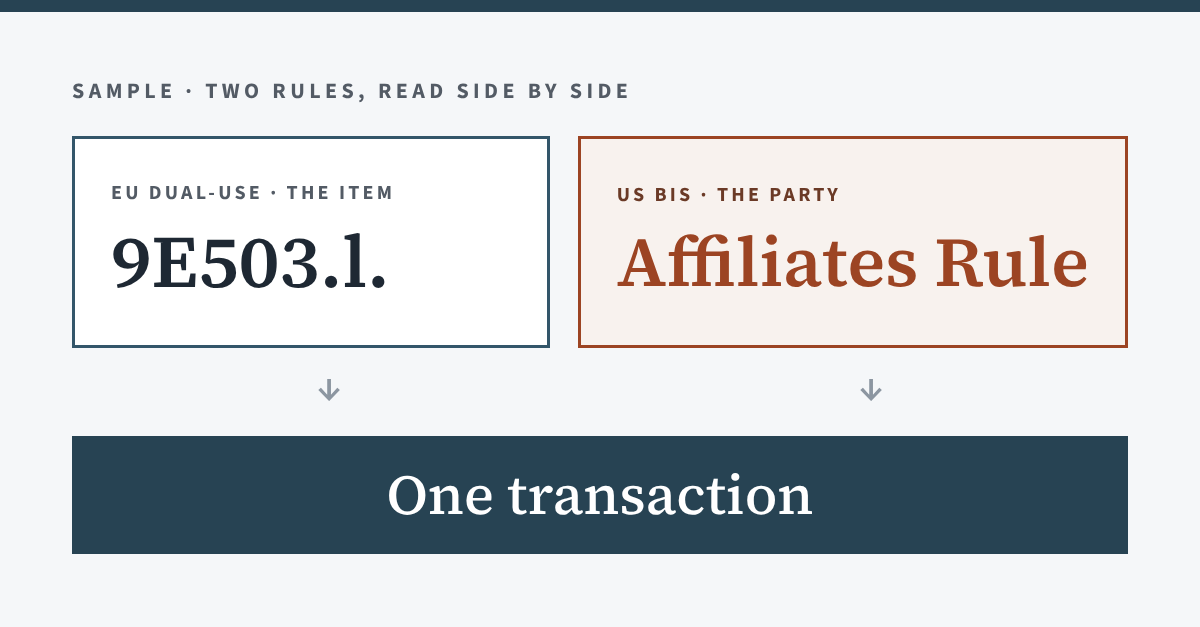
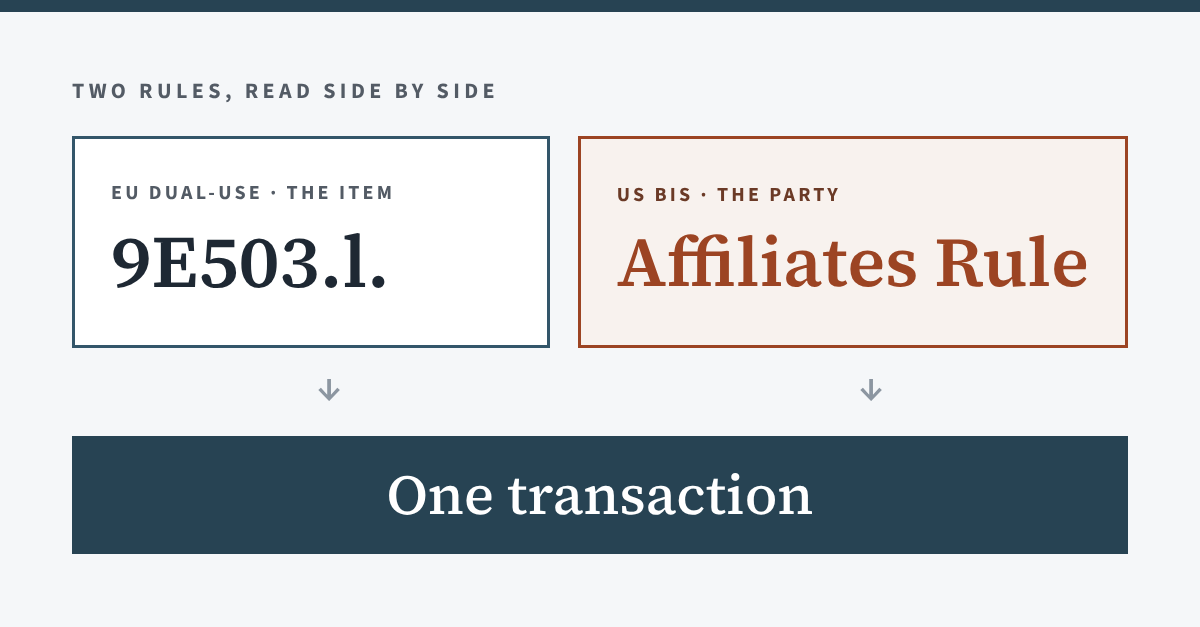
Add files via upload

Changed region(s): [[0.0617, 0.1212, 0.5242, 0.1818]]

diff --git a/sample/index.html b/sample/index.html
@@ -3,12 +3,12 @@ layout: default
 title: "Two Export Control Rules on One Transaction: A Review"
 permalink: /sample/
 image: /assets/og-sample.png
-description: "A sample of the framework applied. Two export control changes on one transaction, reviewed before either takes effect: the EU Dual-Use entry 9E503.l. and the US BIS Affiliates Rule, put through the framework side by side. What changed, where each reaches the export and reexport chain, where the two meet, what may need to be checked again, and where supply-chain disruption may arise."
+description: "EU Dual-Use entry 9E503.l. and the US Affiliates Rule, read on one transaction before either applies: what each reads, where they meet, and what may wait."
 ---
 
 <section class="chero">
   <div class="chero__shell">
-    <p class="chero__id">SAMPLE · EU 9E503.l. × US AFFILIATES RULE</p>
+    <p class="chero__id">EU 9E503.l. × US AFFILIATES RULE</p>
     <h1 class="chero__title">Two Export Control Rules on One Transaction: A Review</h1>
     <p class="chero__subject">The EU adds Dual-Use entry 9E503.l. on technology for developing gas turbine compressors. The US brings back the Affiliates Rule on who owns the recipient. Both are expected to apply from November 2026. Here they meet on one transaction.</p>
 

diff --git a/index.html b/index.html
@@ -12,7 +12,7 @@ permalink: /
       <span class="cov-eyebrow">THE FRAMEWORK</span>
       <h1 class="cov-title">When an Export Control Rule Changes: A Compliance Impact Framework</h1>
       <p class="cov-standfirst">Before a new or amended export control rule takes effect, apply four steps: what changed, where it reaches the firm’s export and reexport chain, what its compliance programme may need to check again, and where supply may be disrupted. Each finding is tagged by what it rests on.</p>
-      <p class="cov-standfirst"><a href="{{ '/sample/' | relative_url }}">See a sample: two rules on one export chain &rarr;</a></p>
+      <p class="cov-standfirst"><a href="{{ '/sample/' | relative_url }}">See a review: two rules on one transaction &rarr;</a></p>
     </div>
 
     <div class="cov-mech" aria-label="The four steps">

diff --git a/_layouts/default.html b/_layouts/default.html
@@ -32,7 +32,7 @@
   <div class="shell masthead__inner">
     <nav class="masthead__nav" aria-label="Pages">
       <a href="{{ '/' | relative_url }}"{% if page.url == '/' or page.url == '/index.html' %} aria-current="page"{% endif %}>The framework</a>
-      <a href="{{ '/sample/' | relative_url }}"{% if page.url == '/sample/' %} aria-current="page"{% endif %}>Sample</a>
+      <a href="{{ '/sample/' | relative_url }}"{% if page.url == '/sample/' %} aria-current="page"{% endif %}>Review</a>
     </nav>
   </div>
 </header>
